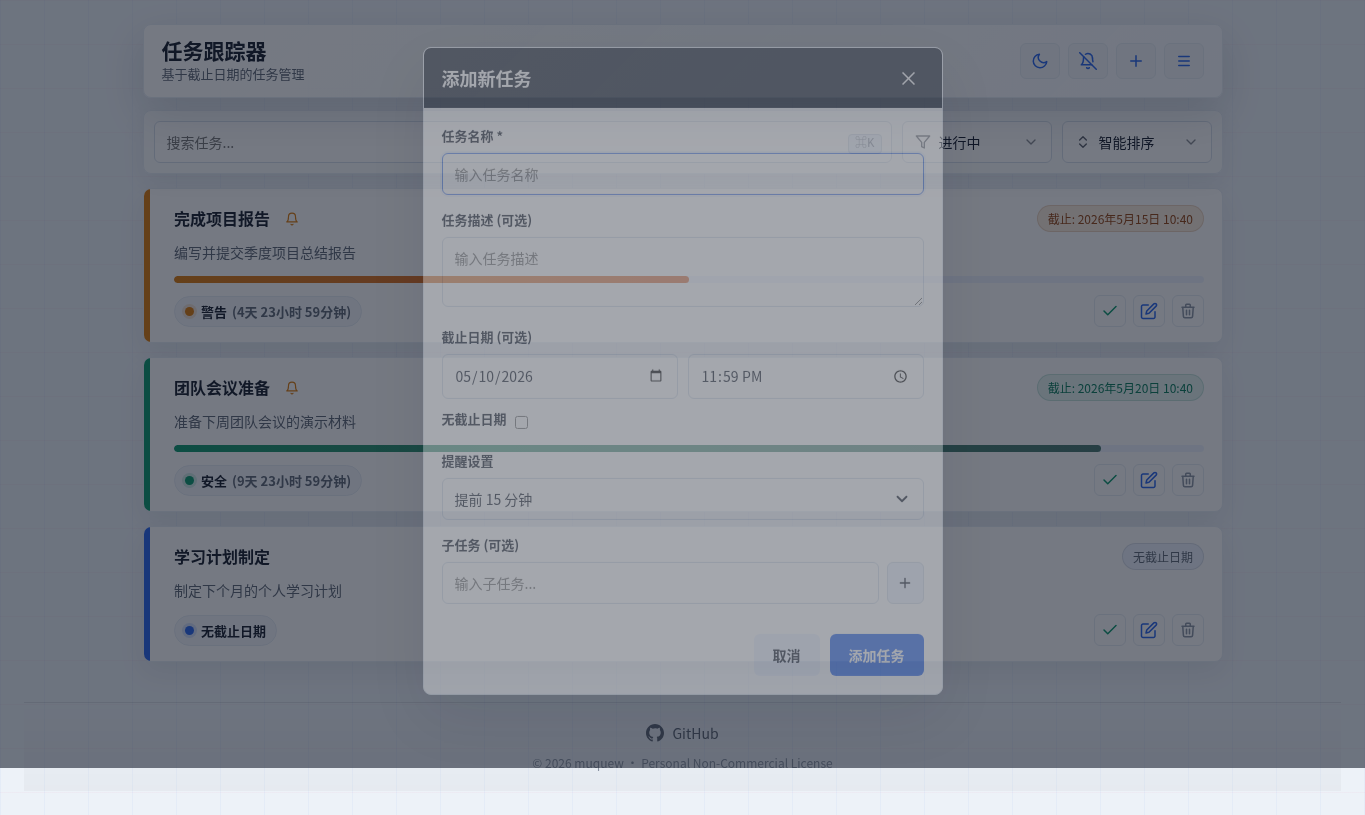
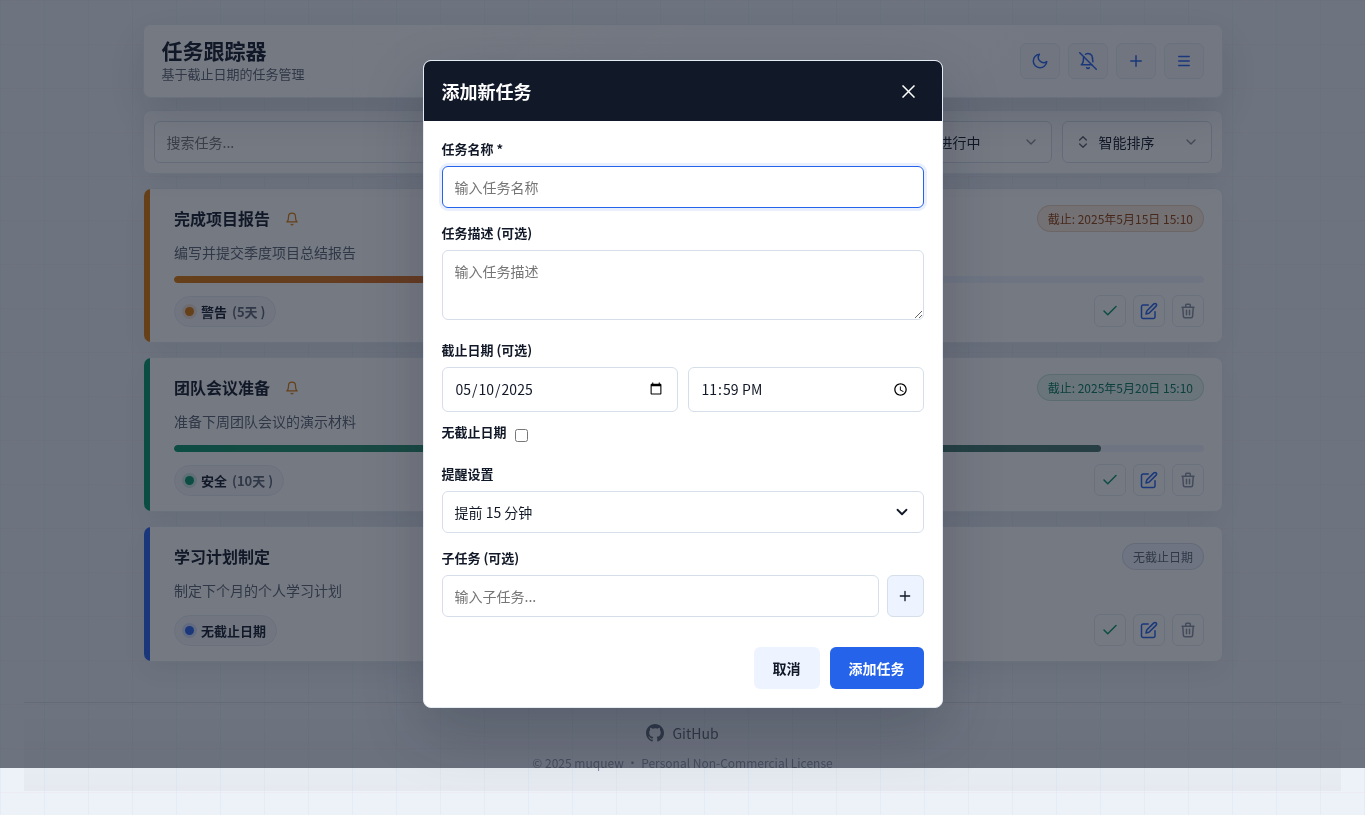
docs: refresh readmes and backup flow

diff --git a/index.html b/index.html
@@ -699,7 +699,7 @@
         <svg class="icon icon-fill"><use href="#icon-github"></use></svg>
         GitHub
     </a>
-    <div class="footer-copyright">© 2026 muquew · Personal Non-Commercial License</div>
+    <div class="footer-copyright">© 2025 muquew · Personal Non-Commercial License</div>
 </footer>
 <script>
     (function() {
@@ -751,7 +751,7 @@
             },
             I18N: {
                 RESOURCE_PATH: './resources',
-                RESOURCE_VERSION: '2.1'
+                RESOURCE_VERSION: '2.2'
             },
             NOTIFICATIONS: {
                 DEFAULT_OFFSET_MINUTES: 15,
@@ -913,6 +913,11 @@
                     state.notifiedTasks = new Set(JSON.parse(notified));
                 }
             } catch (e) { console.error('Failed to load notified tasks', e); }
+        }
+        function clearNotificationDeliveryState() {
+            state.notifiedTasks.clear();
+            state.pendingNotificationKeys.clear();
+            sessionStorage.removeItem(CONFIG.STORAGE.NOTIFIED_TASKS);
         }
         function bindEvents() {
             bindGlobalEvents();
@@ -2653,31 +2658,44 @@
                 startProgressTimer();
             }
         }
-        function exportTasks() {
-            const blob = new Blob([JSON.stringify({ version: '1.0', date: new Date().toISOString(), tasks: state.tasks }, null, 2)], {type: 'application/json'});
-            const url = URL.createObjectURL(blob);
-            const a = document.createElement('a'); a.href = url; a.download = `tasks_${new Date().toISOString().split('T')[0]}.json`;
-            document.body.appendChild(a); a.click(); document.body.removeChild(a);
-            URL.revokeObjectURL(url);
-            utils.notify(state.translations[state.currentLanguage]['messages.export.success']);
+        async function exportTasks() {
+            const t = state.translations[state.currentLanguage];
+            try {
+                const tasks = await loadNormalizedTasks();
+                state.tasks = tasks;
+                const date = new Date().toISOString();
+                const blob = new Blob([JSON.stringify({ version: '1.1', date, tasks }, null, 2)], {type: 'application/json'});
+                const url = URL.createObjectURL(blob);
+                const a = document.createElement('a'); a.href = url; a.download = `task-tracer_${date.split('T')[0]}.json`;
+                document.body.appendChild(a); a.click(); document.body.removeChild(a);
+                URL.revokeObjectURL(url);
+                closeMenu();
+                utils.notify(t['messages.export.success']);
+            } catch (err) {
+                console.error('导出任务失败:', err);
+                utils.notify(t['messages.export.error'], 'error');
+            }
         }
         function importTasks(file) {
             if(!file) return;
+            closeMenu();
             const reader = new FileReader();
             const t = state.translations[state.currentLanguage];
             reader.onload = async (e) => {
                 try {
                     const data = JSON.parse(e.target.result.toString());
-                    if (!data.tasks || !Array.isArray(data.tasks)) {
+                    const rawTasks = getImportTaskArray(data);
+                    if (!rawTasks) {
                         utils.notify(t['messages.import.formatError'], 'error');
                         return;
                     }
-                    utils.confirm(t['actions.import'], t['messages.import.confirm'].replace('{count}', data.tasks.length), async () => {
+                    utils.confirm(t['actions.import'], t['messages.import.confirm'].replace('{count}', rawTasks.length), async () => {
                         try {
-                            const importedTasks = normalizeImportedTasks(data.tasks);
+                            const importedTasks = normalizeImportedTasks(rawTasks);
                             await dbActions.replaceAllTasks(importedTasks);
+                            clearNotificationDeliveryState();
                             await refreshTasks();
-                            utils.notify(t['messages.import.success'].replace('{count}', data.tasks.length));
+                            utils.notify(t['messages.import.success'].replace('{count}', importedTasks.length));
                         } catch (err) {
                             console.error('导入任务失败:', err);
                             utils.notify(t['messages.import.readError'], 'error');
@@ -2692,6 +2710,11 @@
             reader.onerror = () => utils.notify(t['messages.import.readError'], 'error');
             reader.readAsText(file);
             DOM.menu.fileInput.value = '';
+        }
+        function getImportTaskArray(data) {
+            if (Array.isArray(data)) return data;
+            if (data && typeof data === 'object' && Array.isArray(data.tasks)) return data.tasks;
+            return null;
         }
         function normalizeImportedTasks(rawTasks) {
             const usedIds = new Set();

diff --git a/sw.js b/sw.js
@@ -1,10 +1,10 @@
-const CACHE_NAME = 'task-tracer-v3.12';
+const CACHE_NAME = 'task-tracer-v3.13';
 const ASSETS_TO_CACHE = [
     './',
     './index.html',
     './manifest.json',
-    './resources/en.json?v=2.1',
-    './resources/zh-CN.json?v=2.1',
+    './resources/en.json?v=2.2',
+    './resources/zh-CN.json?v=2.2',
     './fav/android-chrome-192x192.png',
     './fav/android-chrome-512x512.png'
 ];

diff --git a/tools/smoke_playwright.py b/tools/smoke_playwright.py
@@ -853,31 +853,29 @@ def exercise_export(page: Page) -> dict[str, Any]:
         raise AssertionError("Export did not produce a readable download file")
 
     exported = json.loads(Path(path).read_text(encoding="utf-8"))
+    if exported.get("version") != "1.1" or not exported.get("date"):
+        raise AssertionError(f"Export payload metadata is incomplete: {exported}")
     if not isinstance(exported.get("tasks"), list) or not exported["tasks"]:
         raise AssertionError(f"Export payload did not include tasks: {exported}")
     return exported
 
 
 def exercise_import(page: Page, imported_name: str) -> None:
-    payload = {
-        "version": "1.0",
-        "date": "2026-05-10T00:00:00.000Z",
-        "tasks": [
-            {
-                "id": 10001,
-                "name": imported_name,
-                "description": "Imported by Playwright smoke test.",
-                "dueDate": None,
-                "createdAt": "2026-05-10T00:00:00.000Z",
-                "completed": False,
-                "order": 1000,
-                "subtasks": [
-                    {"id": 20001, "text": "Imported subtask A", "completed": False},
-                    {"id": 20001, "text": "Imported subtask B", "completed": False},
-                ],
-            }
-        ],
-    }
+    payload = [
+        {
+            "id": 10001,
+            "name": imported_name,
+            "description": "Imported by Playwright smoke test.",
+            "dueDate": None,
+            "createdAt": "2025-05-10T00:00:00.000Z",
+            "completed": False,
+            "order": 1000,
+            "subtasks": [
+                {"id": 20001, "text": "Imported subtask A", "completed": False},
+                {"id": 20001, "text": "Imported subtask B", "completed": False},
+            ],
+        }
+    ]
 
     with tempfile.NamedTemporaryFile("w", suffix=".json", encoding="utf-8", delete=False) as temp_file:
         json.dump(payload, temp_file)

diff --git a/README_zh_cn.md b/README_zh_cn.md
@@ -1,3 +1,67 @@
-# 中文说明
+# Task Tracer 任务跟踪器
 
-中文项目说明已统一维护在 [README.md](./README.md)。
+**[English README](./README.md)**
+
+Task Tracer 是一个基于截止日期的任务管理 PWA，适合个人计划、学习安排和周期性事项跟踪。它把任务数据保存在浏览器本地，加载后支持离线使用，并围绕截止日期状态、提醒、子任务、排序和本地备份组织体验。
+
+[在线体验](https://todo.muquew.com/)
+
+## 功能速览
+
+- 截止日期跟踪：显示安全、警告、紧急、已过期、已完成、无截止日期等状态。
+- 任务管理：支持新增、编辑、删除、完成和恢复任务。
+- 子任务：把任务拆成多个步骤，单独勾选并显示进度。
+- 提醒设置：可选择不提醒、截止时、提前 15 分钟、提前 1 小时或提前 1 天。
+- 搜索与筛选：按关键词搜索，按进行中、已完成、已过期、无截止日期快速筛选。
+- 排序方式：支持智能排序、新创建、截止日期、名称排序和手动拖拽排序。
+- 本地数据：使用 IndexedDB 持久化，支持 JSON 导入和导出。
+- PWA 能力：支持应用缓存、离线加载和安装到浏览器。
+- 主题与语言：支持明暗主题、简体中文和英文。
+- 无障碍体验：支持键盘操作、焦点管理、读屏标签和状态播报。
+
+## 截图
+
+截图用于快速展示当前界面，让 GitHub 项目页更容易浏览。
+
+| 任务列表 | 添加任务 |
+| --- | --- |
+| <img src="./screenshots/task-list.png" alt="Task Tracer 任务列表界面"> | <img src="./screenshots/add-task.png" alt="Task Tracer 添加任务弹窗"> |
+
+## 使用方式
+
+直接访问在线地址：
+
+```text
+https://todo.muquew.com/
+```
+
+或本地运行：
+
+```bash
+git clone https://github.com/muquew/Task-Tracer.git
+cd Task-Tracer
+python3 -m http.server 8080
+```
+
+然后打开：
+
+```text
+http://127.0.0.1:8080/
+```
+
+## 数据与隐私
+
+Task Tracer 默认把任务数据保存在当前浏览器的 IndexedDB 中，不需要账号，也不会把任务内容上传到服务器。更换浏览器、清理站点数据或更换设备前，请先使用导出功能备份 JSON 文件。
+
+## 技术形态
+
+- 主应用：`index.html`
+- 语言资源：`resources/zh-CN.json`、`resources/en.json`
+- PWA Service Worker：`sw.js`
+- 验证：静态一致性校验与 Playwright 浏览器冒烟测试
+
+## 许可
+
+Task Tracer 采用个人非商业使用许可。个人任务管理、学习、研究和评估可以使用；商业使用、付费分发或集成到商业服务需要获得 `muquew` 的事先书面授权。
+
+完整条款见 [LICENSE](./LICENSE)。

diff --git a/README.md b/README.md
@@ -1,39 +1,41 @@
-# Task Tracer 任务跟踪器
+# Task Tracer
 
-Task Tracer 是一个基于截止日期的任务管理 PWA。它把任务、截止时间、提醒、子任务、筛选排序和本地数据备份放在一个轻量界面里，适合个人任务规划、学习安排和周期性事项跟踪。
+**[中文说明](./README_zh_cn.md)**
 
-[在线体验](https://todo.muquew.com/)
+Task Tracer is a deadline-based task management PWA for personal planning, study routines, and recurring work. It keeps task data in the browser, works offline after loading, and focuses on clear deadline status, reminders, subtasks, sorting, and local backup.
 
-## 功能速览
+[Live Demo](https://todo.muquew.com/)
 
-- 截止日期跟踪：按剩余时间显示安全、警告、紧急、过期、无截止日期等状态。
-- 任务管理：支持新增、编辑、删除、完成/恢复任务，以及完成任务划线展示。
-- 子任务：为任务添加子步骤，单独勾选完成并显示进度。
-- 提醒设置：可选择截止时、提前 15 分钟、提前 1 小时、提前 1 天或不提醒。
-- 搜索与筛选：按关键词搜索，按进行中、已完成、已过期、无截止日期快速筛选。
-- 排序方式：支持智能排序、创建时间、截止日期、名称排序和手动拖拽排序。
-- 本地数据：使用 IndexedDB 持久化，支持 JSON 导入和导出。
-- PWA 能力：支持离线加载、安装到桌面或移动设备。
-- 多语言与主题：内置简体中文、英文，支持明暗主题切换。
-- 无障碍体验：支持键盘操作、焦点管理、读屏标签和状态播报。
+## Features
 
-## 截图
+- Deadline tracking: safe, warning, urgent, overdue, completed, and no-deadline states.
+- Task management: add, edit, delete, complete, and restore tasks.
+- Subtasks: break a task into smaller steps and track subtask progress.
+- Reminders: choose no reminder, at due time, 15 minutes before, 1 hour before, or 1 day before.
+- Search and filters: quickly find tasks or switch between active, completed, overdue, and no-deadline views.
+- Sorting: smart sorting, newest created, due date, alphabetical order, and manual drag-and-drop order.
+- Local data: IndexedDB persistence with JSON import and export.
+- PWA support: app shell caching, offline loading, and installable browser experience.
+- Themes and languages: light/dark themes, Simplified Chinese, and English.
+- Accessibility: keyboard-friendly controls, focus management, screen-reader labels, and live status announcements.
 
-截图用于快速展示实际界面；项目功能仍以应用本身为准。
+## Screenshots
 
-| 任务列表 | 添加任务 |
+Screenshots show the current interface and are included to make the GitHub project page easier to scan.
+
+| Task List | Add Task |
 | --- | --- |
-| <img src="./screenshots/task-list.png" alt="Task Tracer 任务列表界面"> | <img src="./screenshots/add-task.png" alt="Task Tracer 添加任务弹窗"> |
+| <img src="./screenshots/task-list-en.png" alt="Task Tracer task list"> | <img src="./screenshots/add-task-en.png" alt="Task Tracer add task dialog"> |
 
-## 使用方式
+## Usage
 
-直接访问在线地址：
+Use the hosted app:
 
 ```text
 https://todo.muquew.com/
 ```
 
-或本地运行：
+Or run it locally:
 
 ```bash
 git clone https://github.com/muquew/Task-Tracer.git
@@ -41,25 +43,25 @@ cd Task-Tracer
 python3 -m http.server 8080
 ```
 
-然后打开：
+Then open:
 
 ```text
 http://127.0.0.1:8080/
 ```
 
-## 数据与隐私
+## Data and Privacy
 
-Task Tracer 默认把任务数据保存在当前浏览器的 IndexedDB 中，不需要账号，也不会把任务内容上传到服务器。更换浏览器、清理站点数据或更换设备前，请先使用导出功能备份 JSON 文件。
+Task Tracer stores task data in the current browser's IndexedDB. It does not require an account and does not upload task content to a server by default. Before changing browsers, clearing site data, or moving devices, use Export to back up a JSON file.
 
-## 技术形态
+## Technical Notes
 
-- 单文件主应用：`index.html`
-- 外置语言资源：`resources/zh-CN.json`、`resources/en.json`
-- PWA Service Worker：`sw.js`
-- 自动检查：静态一致性校验与 Playwright 浏览器冒烟测试
+- Main app: `index.html`
+- Language resources: `resources/zh-CN.json`, `resources/en.json`
+- PWA Service Worker: `sw.js`
+- Validation: static consistency checks and Playwright browser smoke tests
 
-## 许可
+## License
 
-本项目采用个人非商业使用许可。个人学习、研究和个人任务管理可以使用；商业使用、盈利性分发或商业服务集成需要获得 `muquew` 的事先书面授权。
+Task Tracer is licensed for personal non-commercial use. Personal task management, learning, research, and evaluation are allowed. Commercial use, paid distribution, or integration into commercial services requires prior written permission from `muquew`.
 
-完整条款见 [LICENSE](./LICENSE)。
+See [LICENSE](./LICENSE) for the full terms.